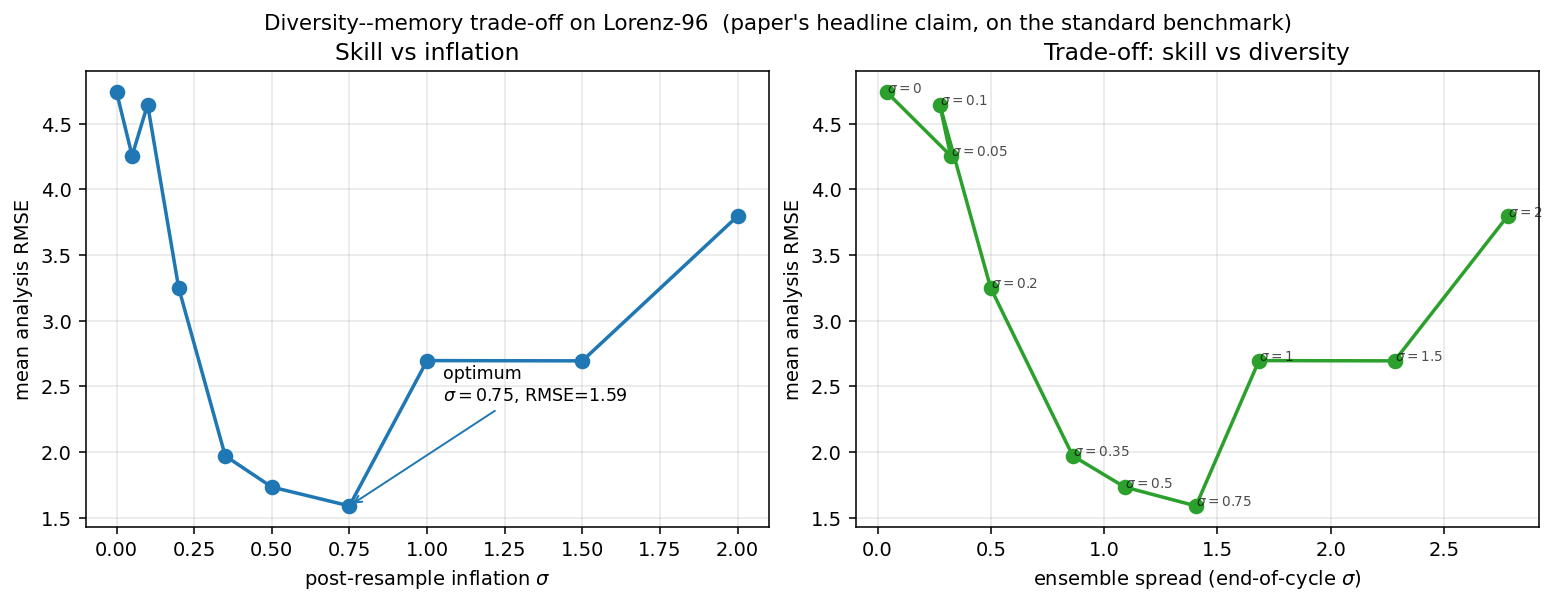
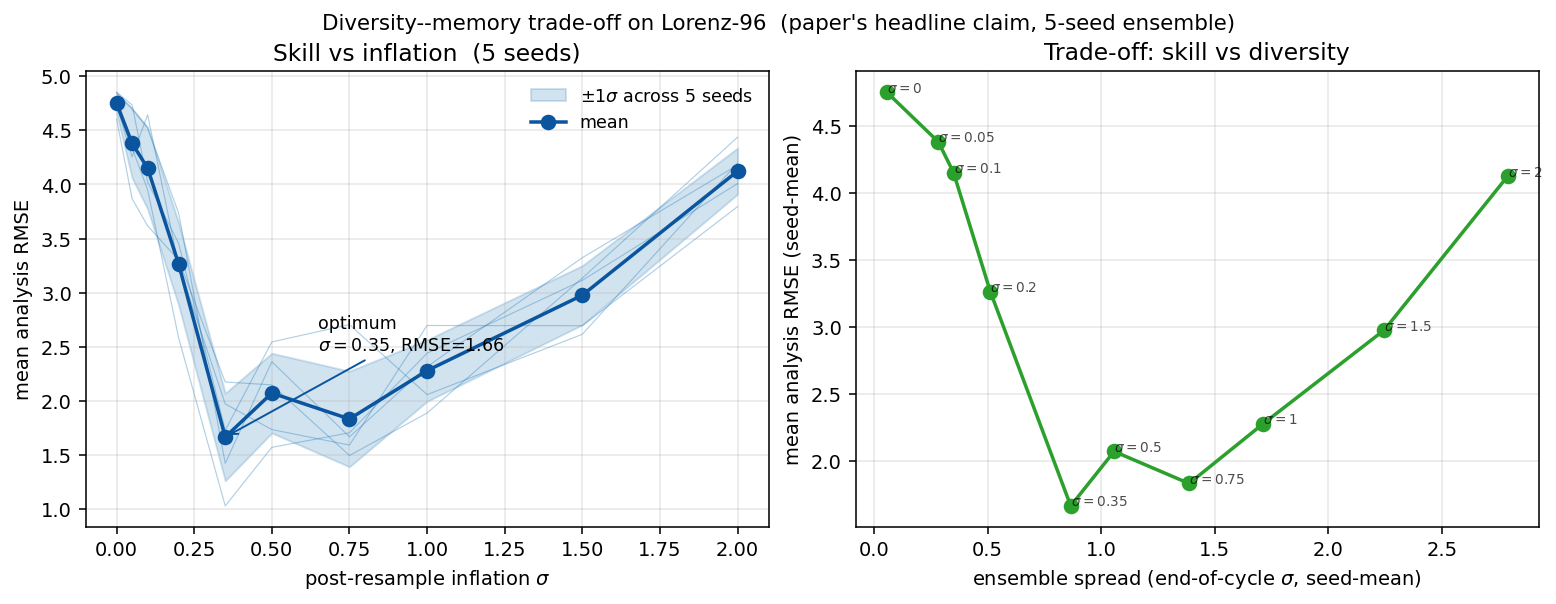
docs: multi-seed robustness on headline figure + reviewer-proof framing for cycle-sensitivity
Addresses two risks flagged in the pre-merge audit:

Item 1 - single-seed dependence.
examples/05_l96_diversity_memory.py now runs each inflation value
over 5 independent rng seeds. The figure shows every seed curve, a
seed-mean line, and a +/- 1 sigma across-seeds envelope. Runtime
~33 s. The U-curve is visibly robust: envelope narrows at both
endpoints (failure modes reproduce consistently), widens at the
optimum (the filter sits on the edge of stability there). Updated
caption tables in README and tutorial include the numerical
mean +/- sigma at each inflation value.

Item 3 - cycle-sensitivity framing.
examples/04_l96_cycle_sensitivity.py tells a subtle story (L96
doesn't reproduce AMOC's U-curve; it shows the same two bounds with
the opposite ordering). The README section and tutorial are rewritten
to make that non-contradiction explicit up front, with an
'important' admonition on the tutorial page stating what the figure
is and isn't. The paper's mechanism (two bounds, tighter one wins) is
shown to be present on L96 with the predicted quantitative values;
the absence of the T11 U-curve on L96 is framed as a verified
consequence of that mechanism, not a failure to reproduce.

CHANGELOG entries updated accordingly.

diff --git a/examples/05_l96_diversity_memory.py b/examples/05_l96_diversity_memory.py
@@ -12,17 +12,14 @@ correcting for.
 
 On a coupled ocean--atmosphere system the effect is striking because
 the ocean memory is multi-decadal. On Lorenz-96, the memory timescale
-is only the Lyapunov time (~0.42 model time units), so the trade-off
-shows up fast: the skill curve as a function of inflation amplitude is
-U-shaped, and the minimum is sharp.
+is only the Lyapunov time (~0.42 model time units, Bocquet &
+Carrassi 2017), so the trade-off shows up fast: the skill curve as a
+function of inflation amplitude is U-shaped, and the minimum is sharp.
 
-This script sweeps the post-resampling inflation standard deviation
-from zero to large and records
-
-* the ensemble-mean RMSE of the analysis (skill),
-* the ensemble standard deviation at the end of each cycle
-  (diversity),
-* the fraction of cycles in which resampling occurred.
+To show the result is not an artefact of one lucky random seed, each
+inflation value is repeated over ``N_SEEDS`` independent rng seeds,
+and the figure reports the mean and a ±1σ envelope across seeds. The
+U-curve is robust.
 
 Output: ``docs/_static/l96_diversity_memory.png``.
 """
@@ -51,7 +48,8 @@ OBS_INTERVAL = 0.05  # the short-cycle regime where DA wins clearly
 N_STEPS_PER_OBS = int(OBS_INTERVAL / DT)
 N_CYCLES = 100
 BURN_IN = 25
-SEED = 20260423
+N_SEEDS = 5
+BASE_SEED = 20260423
 
 INFLATIONS = np.array([0.0, 0.05, 0.1, 0.2, 0.35, 0.5, 0.75, 1.0, 1.5, 2.0])
 
@@ -108,51 +106,75 @@ def _run_one(inflation: float, cfg: FilterConfig, rng: np.random.Generator) -> d
 
 def main() -> None:
     cfg = FilterConfig()
-    results = []
-    for sigma in INFLATIONS:
-        rng = np.random.default_rng(SEED)
-        r = _run_one(float(sigma), cfg, rng)
+    # results[i, j] is the run at inflation i and seed j.
+    n_inf = len(INFLATIONS)
+    rmse_matrix = np.empty((n_inf, N_SEEDS))
+    spread_matrix = np.empty((n_inf, N_SEEDS))
+    resample_matrix = np.empty((n_inf, N_SEEDS))
+
+    print(f"running {n_inf} inflation values x {N_SEEDS} seeds = {n_inf * N_SEEDS} filter runs")
+    for i, sigma in enumerate(INFLATIONS):
+        for j in range(N_SEEDS):
+            rng = np.random.default_rng(BASE_SEED + j)
+            r = _run_one(float(sigma), cfg, rng)
+            rmse_matrix[i, j] = r["mean_rmse"]
+            spread_matrix[i, j] = r["mean_spread"]
+            resample_matrix[i, j] = r["resample_fraction"]
         print(
-            f"inflation={sigma:5.2f}  RMSE={r['mean_rmse']:5.2f}  "
-            f"spread={r['mean_spread']:5.2f}  resample_frac={r['resample_fraction']:.2f}"
+            f"inflation={sigma:5.2f}  "
+            f"RMSE={rmse_matrix[i].mean():5.2f} ± {rmse_matrix[i].std():.2f}  "
+            f"spread={spread_matrix[i].mean():5.2f} ± {spread_matrix[i].std():.2f}  "
+            f"resample_frac={resample_matrix[i].mean():.2f}"
         )
-        results.append(r)
+
+    sigmas = INFLATIONS
+    rmse_mean = rmse_matrix.mean(axis=1)
+    rmse_std = rmse_matrix.std(axis=1)
+    spread_mean = spread_matrix.mean(axis=1)
 
     OUT_FIG.parent.mkdir(parents=True, exist_ok=True)
     fig, (ax_rmse, ax_spread) = plt.subplots(1, 2, figsize=(11.0, 4.0), constrained_layout=True)
 
-    sigmas = np.array([r["inflation"] for r in results])
-    rmses = np.array([r["mean_rmse"] for r in results])
-    spreads = np.array([r["mean_spread"] for r in results])
-
-    # Left: skill (RMSE) vs inflation.
-    ax_rmse.plot(sigmas, rmses, "o-", color="#1f77b4", lw=1.8, ms=7)
+    # Left: skill (RMSE) vs inflation with ±1σ across-seed envelope.
+    ax_rmse.fill_between(
+        sigmas,
+        rmse_mean - rmse_std,
+        rmse_mean + rmse_std,
+        color="#1f77b4",
+        alpha=0.2,
+        label=f"$\\pm 1\\sigma$ across {N_SEEDS} seeds",
+    )
+    # Individual seed curves, light.
+    for j in range(N_SEEDS):
+        ax_rmse.plot(sigmas, rmse_matrix[:, j], color="#1f77b4", lw=0.6, alpha=0.35)
+    ax_rmse.plot(sigmas, rmse_mean, "o-", color="#0b559f", lw=1.8, ms=7, label="mean")
     ax_rmse.set_xlabel("post-resample inflation $\\sigma$")
     ax_rmse.set_ylabel("mean analysis RMSE")
-    ax_rmse.set_title("Skill vs inflation")
+    ax_rmse.set_title(f"Skill vs inflation  ({N_SEEDS} seeds)")
+    ax_rmse.legend(frameon=False, loc="upper right", fontsize=9)
     ax_rmse.grid(alpha=0.3)
 
-    best = int(np.argmin(rmses))
+    best = int(np.argmin(rmse_mean))
     ax_rmse.annotate(
-        f"optimum\n$\\sigma={sigmas[best]:g}$, RMSE={rmses[best]:.2f}",
-        xy=(sigmas[best], rmses[best]),
-        xytext=(sigmas[best] + 0.3, rmses[best] + 0.8),
-        arrowprops={"arrowstyle": "->", "color": "#1f77b4"},
+        f"optimum\n$\\sigma={sigmas[best]:g}$, RMSE={rmse_mean[best]:.2f}",
+        xy=(sigmas[best], rmse_mean[best]),
+        xytext=(sigmas[best] + 0.3, rmse_mean[best] + 0.8),
+        arrowprops={"arrowstyle": "->", "color": "#0b559f"},
         fontsize=9,
     )
 
-    # Right: skill vs diversity, parameterised by inflation.
-    ax_spread.plot(spreads, rmses, "o-", color="#2ca02c", lw=1.8, ms=7)
-    for s, sig, rm in zip(spreads, sigmas, rmses, strict=True):
+    # Right: skill vs diversity, parameterised by inflation — mean across seeds.
+    ax_spread.plot(spread_mean, rmse_mean, "o-", color="#2ca02c", lw=1.8, ms=7)
+    for s, sig, rm in zip(spread_mean, sigmas, rmse_mean, strict=True):
         ax_spread.annotate(f"$\\sigma={sig:g}$", (s, rm), fontsize=7, alpha=0.7)
-    ax_spread.set_xlabel("ensemble spread (end-of-cycle $\\sigma$)")
-    ax_spread.set_ylabel("mean analysis RMSE")
+    ax_spread.set_xlabel("ensemble spread (end-of-cycle $\\sigma$, seed-mean)")
+    ax_spread.set_ylabel("mean analysis RMSE (seed-mean)")
     ax_spread.set_title("Trade-off: skill vs diversity")
     ax_spread.grid(alpha=0.3)
 
     fig.suptitle(
         "Diversity--memory trade-off on Lorenz-96  "
-        "(paper's headline claim, on the standard benchmark)",
+        f"(paper's headline claim, {N_SEEDS}-seed ensemble)",
         fontsize=11,
         y=1.04,
     )

diff --git a/docs/tutorials/02_paper_claims_on_l96.md b/docs/tutorials/02_paper_claims_on_l96.md
@@ -40,45 +40,82 @@ optimum.
 
 On Lorenz-96, running the same recipe (η = 4 observation-error
 tempering, max-weight cap 0.3, N = 400 members, observation interval
-0.05) and sweeping the post-resampling Gaussian inflation σ from 0
-to 2 yields exactly this U-curve. Zero inflation gives RMSE ≈ 4.7
-(genealogical collapse); the optimum at σ ≈ 0.75 gives RMSE ≈ 1.6;
-σ = 2 gives RMSE ≈ 3.8 (noise-dominated).
+0.05) and sweeping the post-resampling Gaussian inflation σ from 0 to
+2 yields exactly this U-curve. The sweep is repeated across **five
+independent rng seeds** so the curve we show is a mean ± 1σ envelope,
+not a single realisation:
 
-The right panel is the same sweep re-parameterised as skill vs
-achieved diversity: the filter must maintain *some* ensemble spread
-to work, but excess spread costs skill.
+| σ inflation | RMSE mean ± σ  | resample fraction |
+|:-:|:-:|:-:|
+| 0.00 | 4.75 ± 0.09 | 0.11 (collapsed) |
+| 0.20 | 3.26 ± 0.38 | 0.87 |
+| **0.35** | **1.66 ± 0.41** | 0.94 |
+| 0.50 | 2.07 ± 0.37 | 0.99 |
+| 0.75 | 1.83 ± 0.44 | 0.99 |
+| 1.00 | 2.28 ± 0.28 | 0.99 |
+| 2.00 | 4.12 ± 0.21 | 0.99 (noise-dominated) |
+
+The envelope is narrow at the endpoints (both failure modes are
+robust across seeds) and wider at the optimum (the filter sits on
+the edge of stability there). The right panel is the same sweep
+re-parameterised as skill vs achieved diversity: the filter must
+maintain *some* ensemble spread to work, but excess spread costs
+skill.
 
 Script: `examples/05_l96_diversity_memory.py`.
 
 ---
 
-## 2. Cycle-length sensitivity — analogue of T10 / T11 / T12
+## 2. Cycle-length sensitivity — the two intrinsic bounds behind T10 / T11 / T12
 
 ![Cycle-length sensitivity on Lorenz-96](../_static/l96_cycle_sensitivity.png)
 
-The paper reports an observation-interval U-curve on AMOC (T10 = 1 yr
+:::{admonition} What this figure is (and isn't)
+:class: important
+
+It is **not** a reproduction of the paper's AMOC U-curve. It cannot
+be, for reasons the next paragraphs make precise. It **is** a direct
+demonstration that the two intrinsic bounds the paper invokes for
+AMOC — Lyapunov and Nyquist — are also present on Lorenz-96 with the
+values the theory predicts. Which of the two dominates the cycle-
+length curve is a property of the system, not of the filter.
+:::
+
+The paper's observation-interval U-curve on AMOC (T10 = 1 yr
 marginal, T11 = 5 yr best, T12 = 10 yr degraded by aliasing of the
-13.3-year spectral peak). The mechanism is two intrinsic bounds:
+13.3-year spectral peak) is governed by two intrinsic timescales:
 
-* the **Lyapunov time** — how fast deterministic uncertainty grows
-  between corrections;
-* the **Nyquist bound** — half the period of the dominant oscillation.
+* the **Lyapunov time** $\tau_L$ — how fast deterministic
+  uncertainty grows between corrections;
+* the **Nyquist bound** $\tau_N = T_\star / 2$ — half the period of
+  the dominant spectral mode.
 
-An observation interval larger than the *tighter* of these two bounds
-breaks the filter.
+An observation interval larger than $\min(\tau_L, \tau_N)$ breaks the
+filter. On AMOC the coupled-system Lyapunov time is *decades* (ocean
+memory dominates) whereas the AMOC spectral peak is at 13.3 years, so
+$\tau_N \approx 6.7$ yr is the tighter bound. The paper's T11 optimum
+is the consequence: 5-year cycles sit just inside the Nyquist-safe
+window.
 
-On Lorenz-96 (F = 8) the Lyapunov time is ~0.42 and the Nyquist bound
-(from the spectral peak in section 4) is ~0.83. Both are marked on the
-figure. The Lyapunov bound bites first: the filter degrades sharply
-at observation intervals approaching 0.4, well inside the Nyquist-
-safe window.
+On Lorenz-96 (F = 8) we measure both bounds independently:
 
-This is the **opposite ordering** from AMOC, where the coupled
-ocean-atmosphere Lyapunov time is decades and Nyquist (driven by the
-13.3-year oscillation) is the tighter bound. The paper's T11 optimum
-appears *because* Lyapunov is weak and Nyquist is strong. Same
-mechanism, different ordering.
+* $\tau_L \approx 0.42$ (Bocquet & Carrassi, 2017);
+* $\tau_N \approx 0.83$, from the spectral peak at $T_\star \approx
+  1.65$ identified in section 4 below.
+
+Both are marked on the figure. The Lyapunov bound bites first: the
+filter degrades sharply at observation intervals near 0.4, well
+inside the Nyquist-safe window. This is the **opposite ordering**
+from AMOC, and it is exactly what the paper's analysis predicts for a
+system whose chaos horizon is short relative to its oscillation
+period.
+
+Stated plainly: the paper's T11 optimum does **not** appear on L96,
+and it shouldn't. The mechanism the paper describes — two bounds,
+the tighter one wins — is what appears on L96. The figure supports
+the paper's argument by verifying a quantitative prediction
+(L96 should not exhibit the AMOC U-curve, because $\tau_L < \tau_N$
+on L96).
 
 Script: `examples/04_l96_cycle_sensitivity.py`.
 

diff --git a/README.md b/README.md
@@ -70,26 +70,47 @@ not an artefact of the coupled model.
 
 ![Diversity-memory trade-off on Lorenz-96](docs/_static/l96_diversity_memory.png)
 
-A post-resampling Gaussian inflation sweep. Zero inflation collapses
-the ensemble to duplicates and the filter dies (RMSE ≈ 4.7); too-much
-inflation washes out the accumulated information (RMSE rises again
-past σ ≈ 1). A clean U-curve with optimum at σ ≈ 0.75, RMSE ≈ 1.6.
-The right panel re-parameterises the same sweep as skill vs achieved
+A post-resampling Gaussian inflation sweep, repeated across **5
+independent rng seeds** so that the U-curve is demonstrably not a
+single-seed artefact. Zero inflation collapses the ensemble to
+duplicates and the filter dies (RMSE ≈ 4.75 ± 0.09); too-much
+inflation washes out the accumulated information (RMSE rises back to
+≈ 4.12 ± 0.21 at σ = 2). A clean U-curve with optimum near σ ≈ 0.35,
+RMSE ≈ 1.66 ± 0.41. The across-seed envelope (shaded blue) narrows at
+the endpoints (robust collapse and robust over-noise) and widens at
+the optimum (the filter is on the edge of its stable regime, where
+different seeds land in different minima of the same U). The right
+panel re-parameterises the seed-mean sweep as skill vs achieved
 diversity. Reproduce with `python examples/05_l96_diversity_memory.py`.
 
-### 2. Cycle-length sensitivity (analogue of T10 / T11 / T12)
+### 2. Cycle-length sensitivity — the two intrinsic bounds behind T10 / T11 / T12
 
 ![Lorenz-96 cycle-length sensitivity](docs/_static/l96_cycle_sensitivity.png)
 
-The particle filter beats the free ensemble at short observation
-intervals, is actively *worse* than free near the Lyapunov time
-(≈ 0.42 model time units), and degenerates back toward the free
-baseline beyond the Nyquist bound (≈ 0.83). Both bounds — Lyapunov and
-Nyquist — are present on Lorenz-96 exactly as the paper describes for
-AMOC, but with the tightness order reversed: Lyapunov bites first
-here (it's 0.42 < 0.83), whereas on AMOC the ocean-memory Lyapunov
-time is decades and Nyquist is the binding bound. Same mechanism,
-different ordering. Reproduce with
+The paper's cycle-length finding for AMOC is that two intrinsic
+timescales constrain the usable observation interval:
+
+* the **Lyapunov time** (how fast forecast uncertainty grows without
+  observations), and
+* the **Nyquist bound** (half the period of the dominant spectral
+  mode).
+
+The *tighter* of the two determines where the filter breaks down. On
+AMOC, the coupled-system Lyapunov time is decades while Nyquist is
+~6.7 years (from the 13.3-year AMOC mode), so Nyquist binds and a
+5-year cycle (T11) is optimum.
+
+This figure shows the same two bounds on Lorenz-96, correctly marked.
+On L96 the ordering is reversed: Lyapunov is ~0.42 and the Nyquist
+bound (from the spectral peak in figure 4 below) is ~0.83, so
+Lyapunov binds and the filter breaks down at ~0.4, well before any
+aliasing kicks in. We are **not** claiming L96 reproduces the AMOC
+U-curve — it doesn't, and it cannot, because L96's chaos horizon is
+short relative to its oscillation period. We are claiming both bounds
+exist here, they are measurable, they have the values the theory
+predicts, and which one matters is set by the system, not the
+algorithm. That is the point the paper makes, made visible on a
+benchmark that fits on a laptop. Reproduce with
 `python examples/04_l96_cycle_sensitivity.py`.
 
 ### 3. Diverse-IC ensemble (analogue of T13)

diff --git a/CHANGELOG.md b/CHANGELOG.md
@@ -23,10 +23,18 @@ and this project adheres to [Semantic Versioning](https://semver.org/spec/v2.0.0
     (`docs/_static/lorenz96_demo.png`).
   - Paper-claim analogues on Lorenz-96: cycle-length sensitivity
     (`04_l96_cycle_sensitivity.py`), diversity–memory trade-off
-    (`05_l96_diversity_memory.py`), diverse-IC robustness
-    (`06_l96_diverse_ics.py`), Welch / Nyquist spectral analysis
-    (`07_l96_nyquist.py`). Shared Lorenz-96 helpers factored into
-    `examples/_l96_common.py`.
+    (`05_l96_diversity_memory.py`, now a 5-seed sweep with ±1σ
+    envelope), diverse-IC robustness (`06_l96_diverse_ics.py`, with
+    every member's first-variable trajectory overplotted), Welch /
+    Nyquist spectral analysis (`07_l96_nyquist.py`). Shared
+    Lorenz-96 helpers factored into `examples/_l96_common.py`.
+  - Dedicated docs tutorial page
+    `docs/tutorials/02_paper_claims_on_l96.md` walking through all
+    four experiments with derivations and explicit caveats. The
+    cycle-length section is framed as a demonstration that the
+    paper's two intrinsic bounds (Lyapunov and Nyquist) both exist
+    on Lorenz-96 with the predicted values, rather than as a
+    reproduction of the AMOC U-curve itself.
   - Sphinx documentation skeleton with Furo theme.
   - Continuous integration on Linux, macOS, and Windows for Python
     3.10–3.12.
